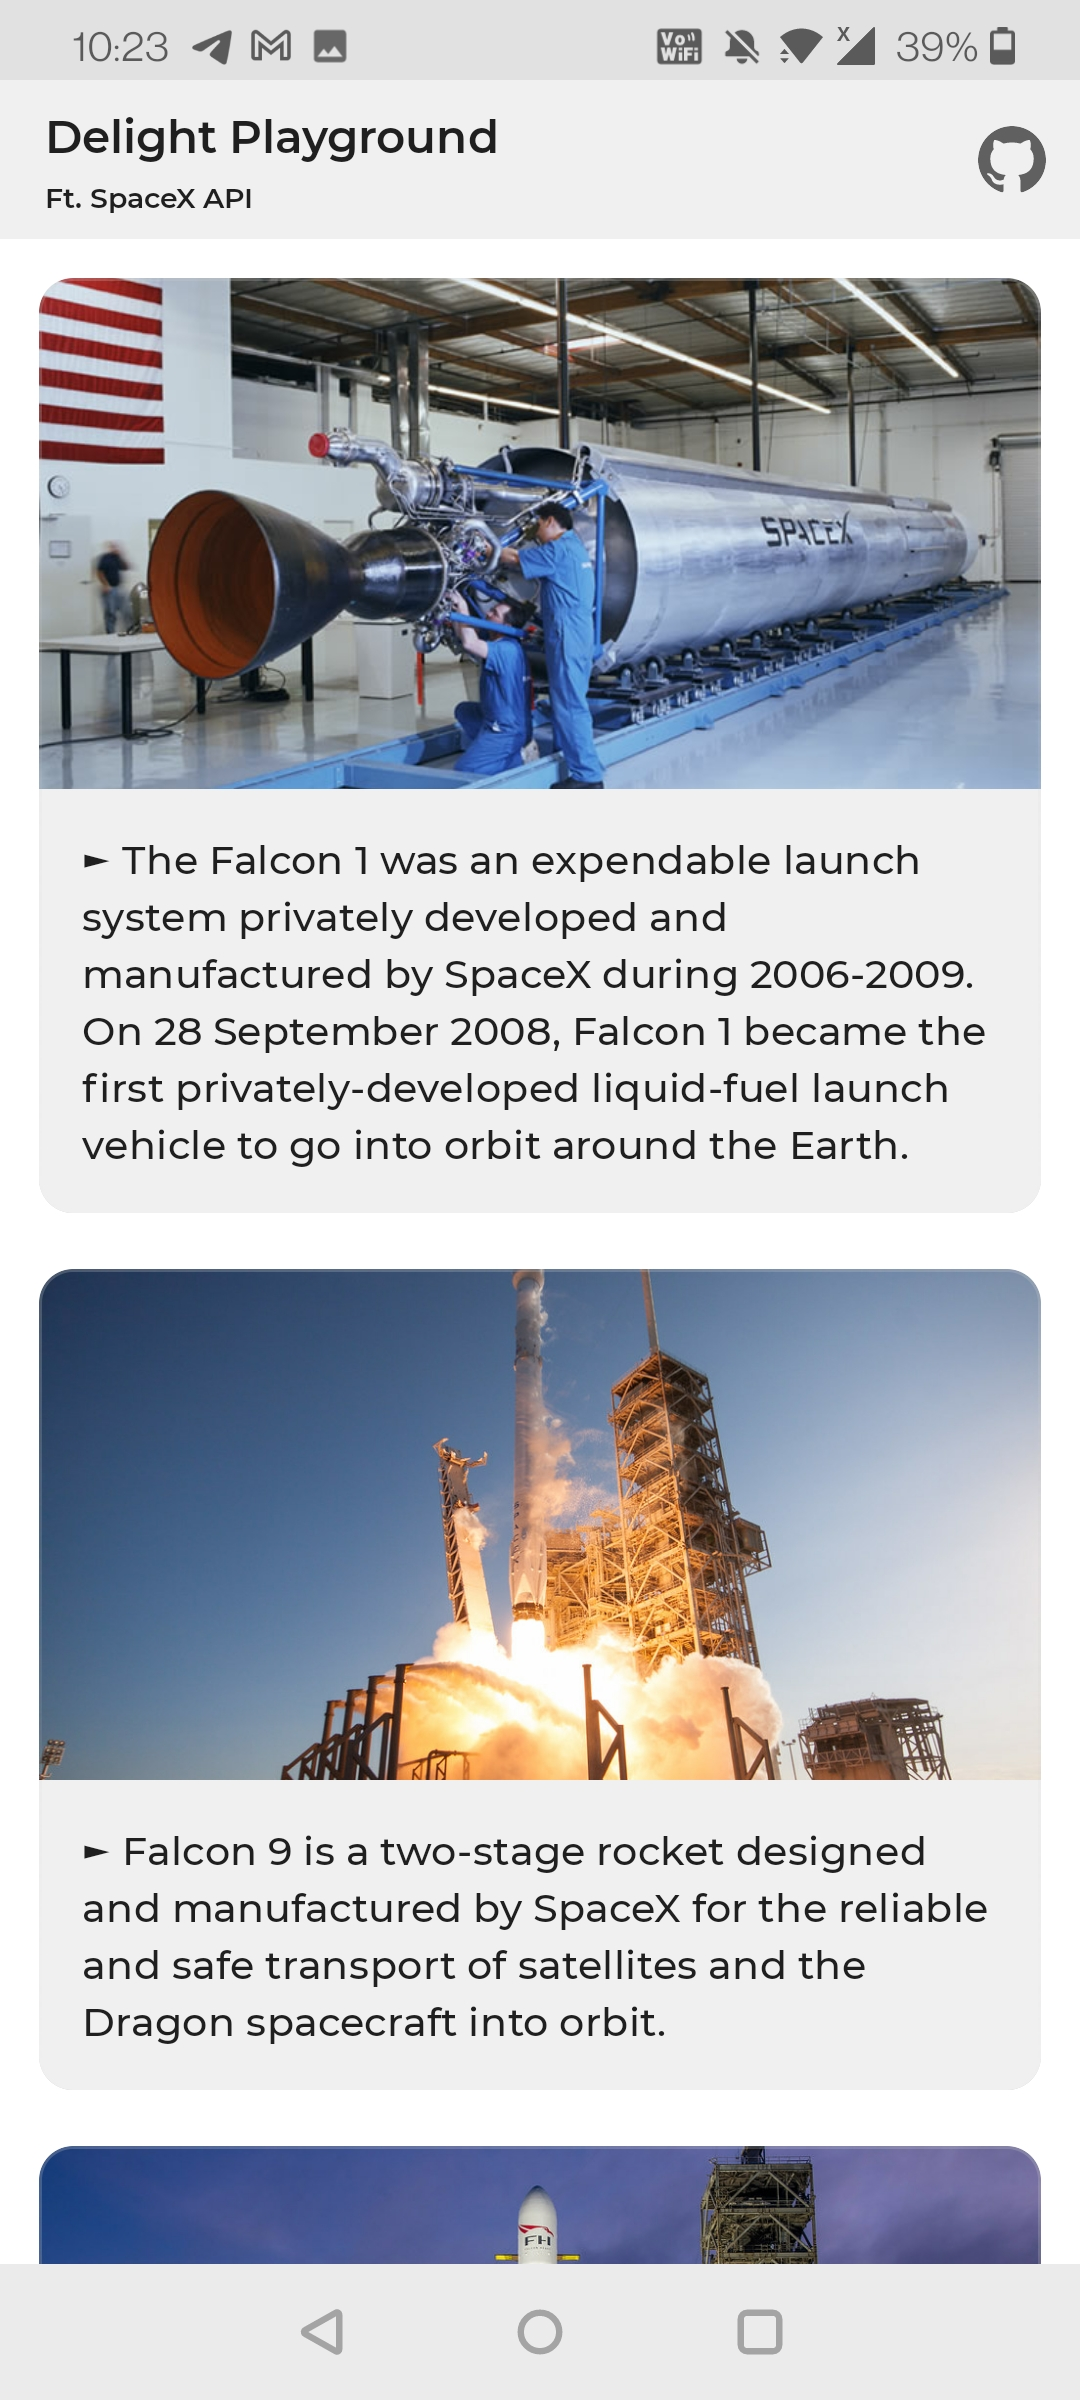
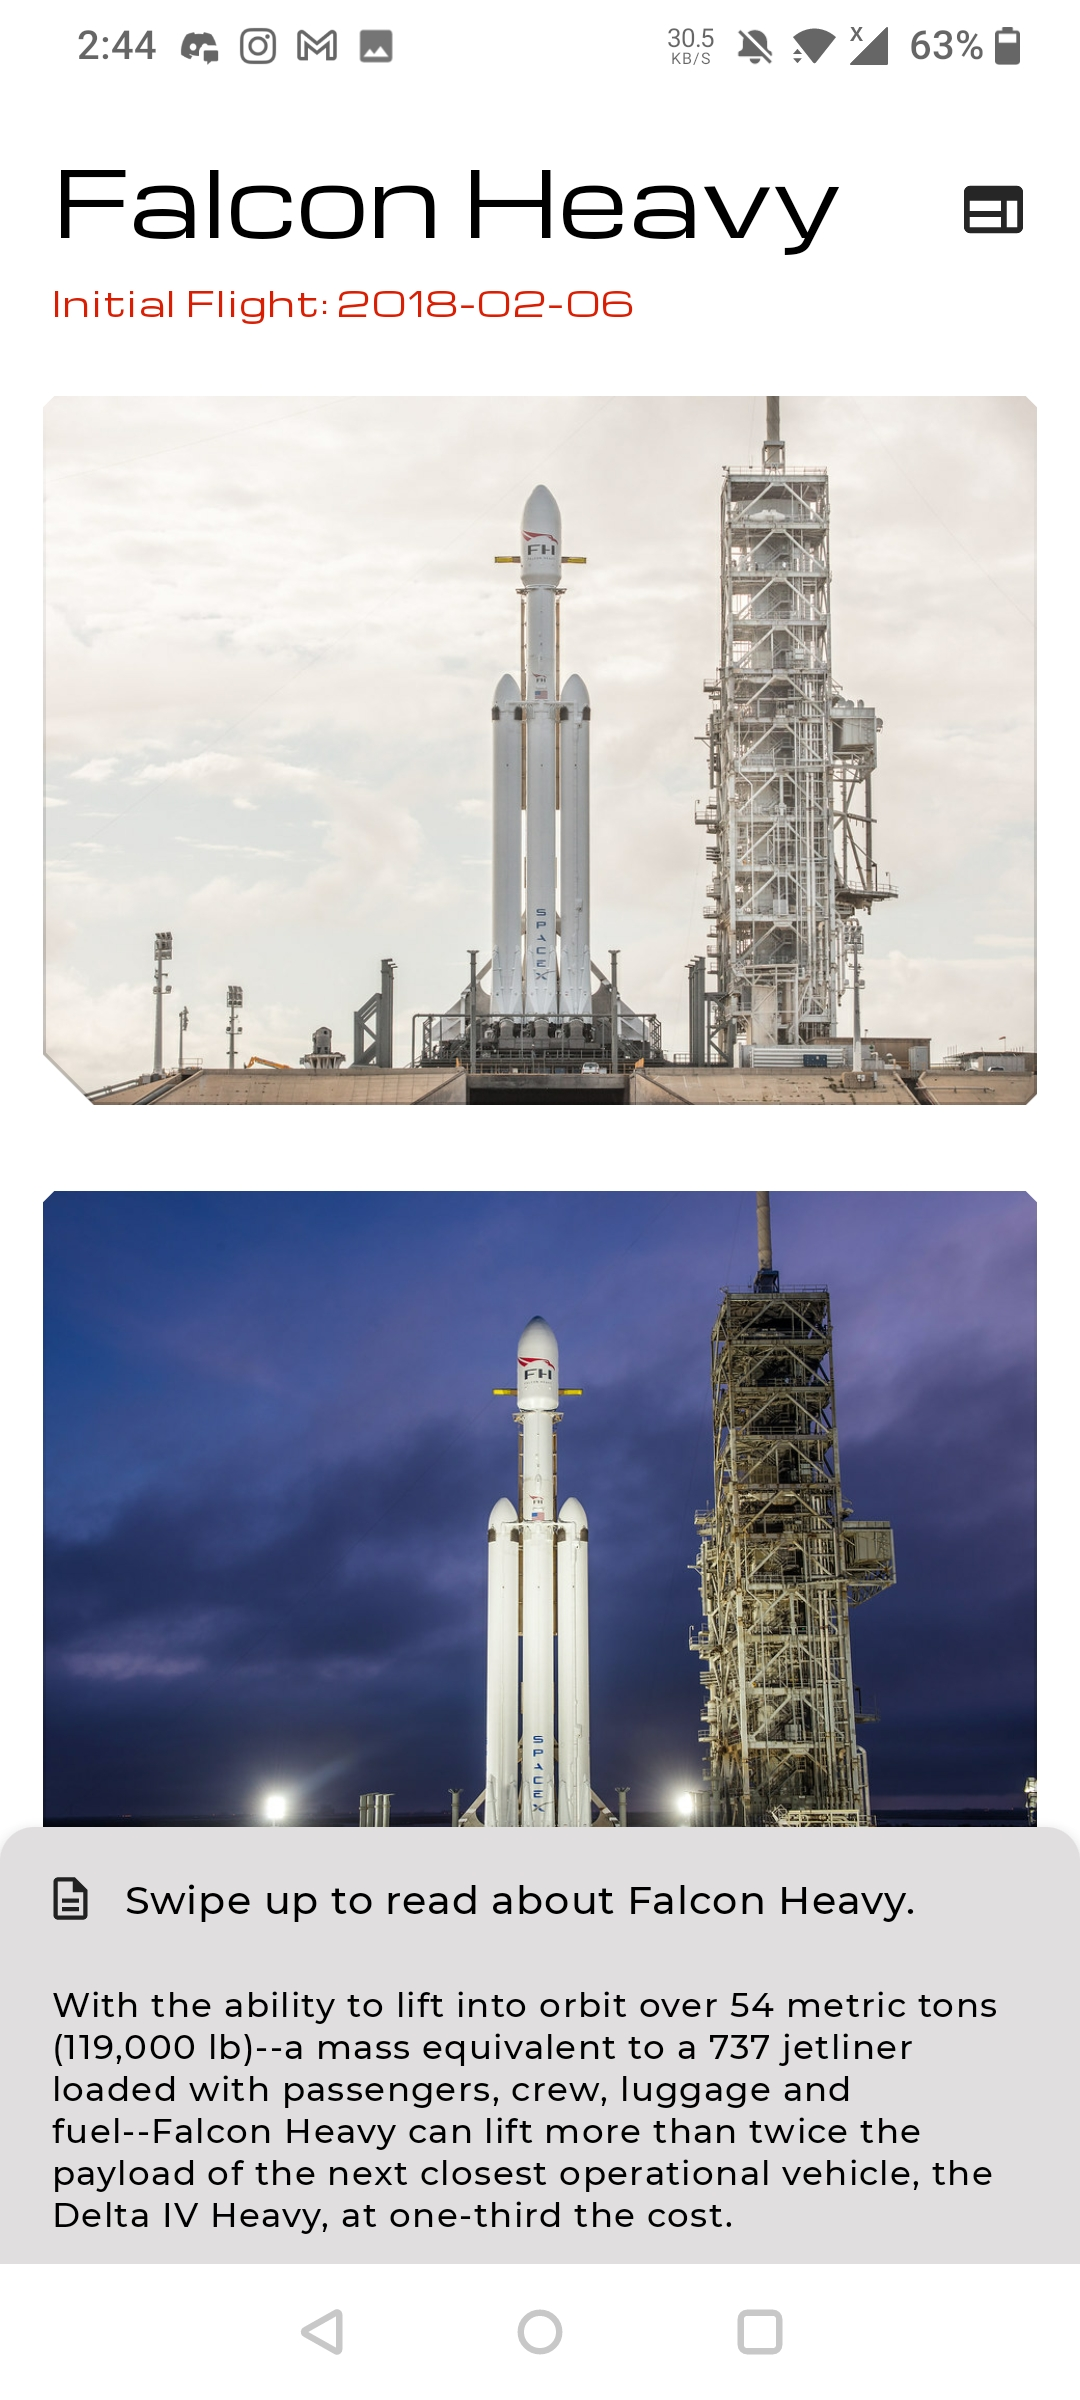
UI Refactor at RocketListScreen.kt & RocketDetailScreen.kt

diff --git a/README.md b/README.md
@@ -7,12 +7,14 @@ usage of advance libraries such as Ktor, SqlDelight, Hilt etc.
 [![Delight-Playground](https://img.shields.io/badge/APK-Delight--Playground-green)](https://github.com/kasem-sm/SpaceXDelight-Playground/blob/master/app/release/app-release.apk)
 
 <img src="https://github.com/kasem-sm/SpaceXDelight-Playground/blob/master/art/1.jpg" width="25%"> -*- <img src="https://github.com/kasem-sm/SpaceXDelight-Playground/blob/master/art/2.jpg" width="25%">
+<img src="https://github.com/kasem-sm/SpaceXDelight-Playground/blob/master/art/3.jpg" width="25%">
 
 ### **SqlDelight**
 
 - SqlDelight can be used for various platforms such as Android, iOS, web etc. The initial setup of
   SqlDelight is not as easy as Room but also not difficult.
-- If you need to know more about SqlDelight, please read the documentation or [my article](https://github.com/kasem-sm/RocketXDelight-Playground#-medium-artcile).
+- If you need to know more about SqlDelight, please read the documentation
+  or [my article](https://github.com/kasem-sm/RocketXDelight-Playground#-medium-artcile).
 
 ### **Content of the app**
 
@@ -30,9 +32,12 @@ usage of advance libraries such as Ktor, SqlDelight, Hilt etc.
 - [Coil](https://coil-kt.github.io/coil/compose/)
 - [Swipe Refresh from Accompanist](https://google.github.io/accompanist/swiperefresh/)
 
-### 🧾 **Medium article**
+### 🧾 **More Information**
 
-- [Link will be updated soon](https://medium.com/@kasem.)
+- The app also includes example usage of Scaffold API, handling backPress, theming, best practices
+  of Jetpack Compose.
+
+- [Medium Article - Link will be updated soon](https://medium.com/@kasem.)
 
 ### ***TODO***
 
